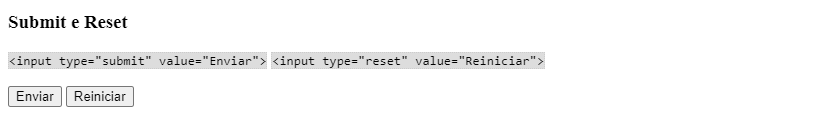
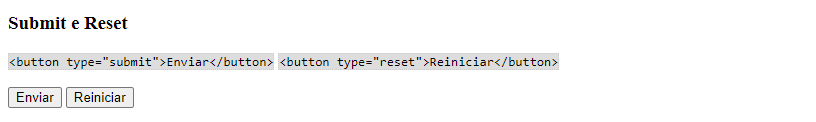
Ajusta forms

Changed region(s): [[0.0, 0.4215, 0.7047, 0.5702], [0.0, 0.6942, 0.1838, 0.843], [0.0, 0.124, 0.1532, 0.2479]]

diff --git a/content/forms.md b/content/forms.md
@@ -286,12 +286,15 @@ Permitem o acionamento do formulário.
 
 * `submit` cria um botão de envio.
 * `reset` cria um botão que volta os campos para seu valor inicial.
+* Você pode utilizar qualquer tipo de conteúdo junto ao texto do botão.
 
 Exemplos:
 
 ```html
-<input type="submit" value="Enviar">
-<input type="reset" value="Reiniciar">
+<button type="submit">Enviar</button>
+<button type="reset">Reiniciar</button>
 ```
 
 ![](000118.png)
+
+_Não use `input type="submit"` ou `"reset"`, pois são muito mais difíceis de estilizar._
